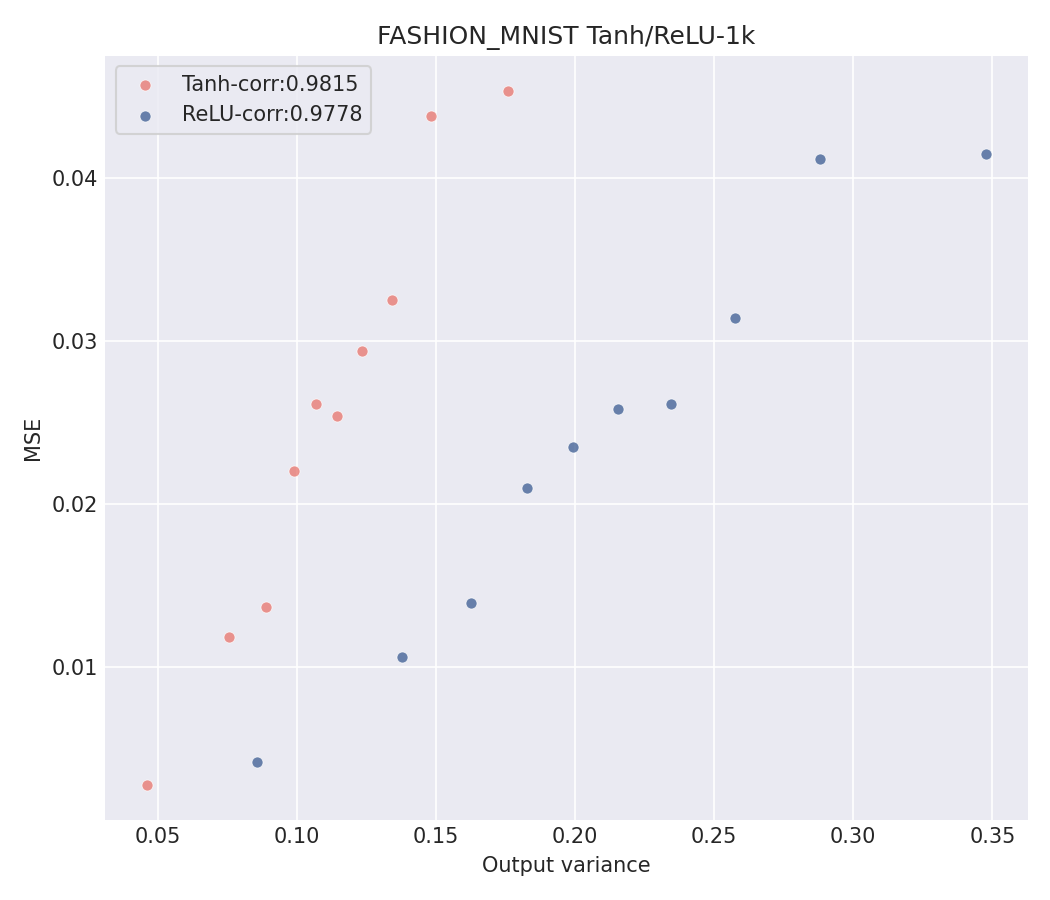
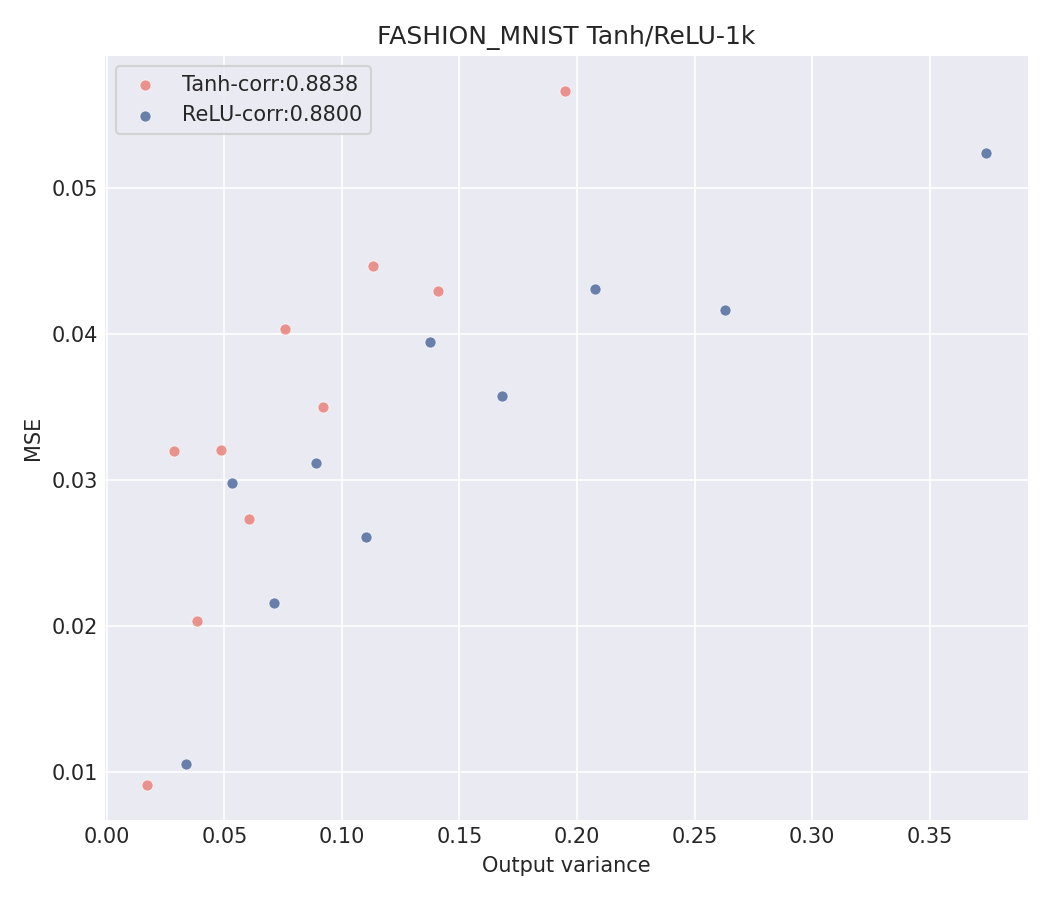
fixed error fashion mnist

diff --git a/load_dataset.py b/load_dataset.py
@@ -107,7 +107,7 @@ def load_mnist(num_train=50000,
                 random_roated_labels=False,
                 dataset='mnist'):
   """Loads MNIST (or Fashion-MNIST)as numpy array."""
-  datasets = _load_via_keras(validation_size=10000)
+  datasets = _load_via_keras(dataset,validation_size=10000)
   return _select_mnist_subset(
       datasets,
       num_train,
